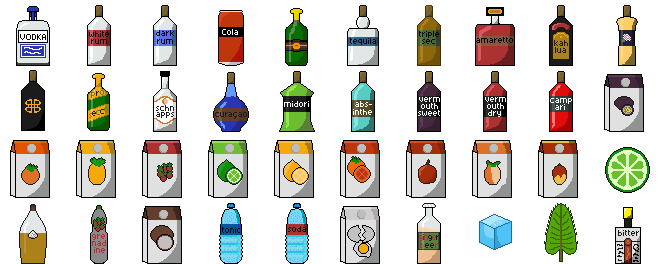
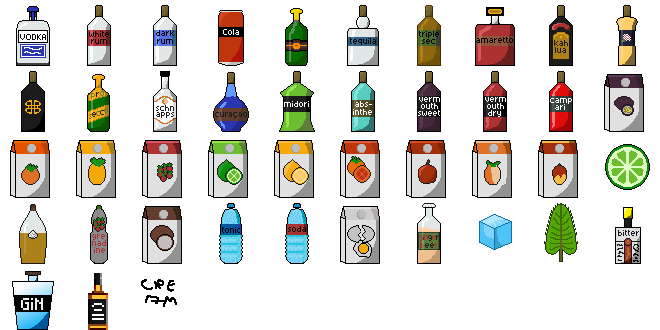
working tilesheet and all assets in game

diff --git a/main.py b/main.py
@@ -84,13 +84,6 @@ if True:
     cocktail_shaker_img = convert_asset("assets/cocktail_shaker.png", 2)
     cocktail_glass_img = convert_asset("assets/cocktail_glass.png", 1)
 
-    vodka_bar_img = convert_asset("assets/vodka_bar.png", 1)
-    orange_juice_bar_img = convert_asset("assets/orange_juice_bar.png", 1)
-    champagne_bar_img = convert_asset("assets/vodka_bar.png", 1)
-    water_bar_img = convert_asset("assets/waterbottle_bar.png", 1)
-    whiskey_bar_img = convert_asset("assets/vodka_bar.png", 1)
-    gin_bar_img = convert_asset("assets/vodka_bar.png", 1)
-
     guest1_img = convert_asset("assets/guest_1.png", 1)
     guest2_img = convert_asset("assets/guest_2.png", 1)
     guest3_img = convert_asset("assets/guest_3.png", 1)
@@ -116,28 +109,51 @@ if True:
 #----------assigning image names---------
 
 if True: 
-    #----ingredient icons-----
-    vodka_icon = ingredient_icons_list[0]
-    white_rum_icon = ingredient_icons_list[1]
-    dark_rum_icon = ingredient_icons_list[2]
-    cola_icon = ingredient_icons_list[3]
-    champagne_icon = ingredient_icons_list[4]
-    tequila_icon = ingredient_icons_list[5]
-    triple_sec_icon = ingredient_icons_list[6]
-    amaretto_icon = ingredient_icons_list[7]
-    kahlua_icon = ingredient_icons_list[8]
-    #no idea what this is
-    #no idea what this is
-    prosecco_icon = ingredient_icons_list[11]
-    schnapps_icon = ingredient_icons_list[12]
-    curacao_icon = ingredient_icons_list[13]
-    midori_icon = ingredient_icons_list[14]
-    absinthe_icon = ingredient_icons_list[15]
-    sweet_vermouth_icon = ingredient_icons_list[16]
-    dry_vermouth_icon = ingredient_icons_list[17]
-    campari_icon = ingredient_icons_list[18]
-    passionfruit_juice_icon = ingredient_icons_list[19]
-    #more to come
+    drink_bar_library = {
+                            "vodka": ingredient_icons_list[0],
+                            "gin": ingredient_icons_list[40],
+                            "orange juice": ingredient_icons_list[20],
+                            "white rum": ingredient_icons_list[1],
+                            "cola": ingredient_icons_list[3],
+                            "tonic water": ingredient_icons_list[33],
+                            "soda water": ingredient_icons_list[34],
+                            "lime juice": ingredient_icons_list[23],
+                            "mint": ingredient_icons_list[38],
+                            "sugar syrup": ingredient_icons_list[30],
+                            "ice": ingredient_icons_list[37],
+                            "dark rum": ingredient_icons_list[2],
+                            "tequila": ingredient_icons_list[5],
+                            "whiskey": ingredient_icons_list[41],
+                            "triple sec": ingredient_icons_list[6],
+                            "amaretto": ingredient_icons_list[7],
+                            "kahlúa": ingredient_icons_list[8],
+                            "baileys": ingredient_icons_list[10],
+                            "champagne": ingredient_icons_list[4],
+                            "prosecco": ingredient_icons_list[11],
+                            "peach schnapps": ingredient_icons_list[12],
+                            "blue curaçao": ingredient_icons_list[13],
+                            "midori": ingredient_icons_list[14],
+                            "absinthe": ingredient_icons_list[15],
+                            "dry vermouth": ingredient_icons_list[17],
+                            "sweet vermouth": ingredient_icons_list[16],
+                            "campari": ingredient_icons_list[18],
+                            "elderflower liqueur": ingredient_icons_list[9],
+                            "pineapple juice": ingredient_icons_list[21],
+                            "cranberry juice": ingredient_icons_list[22],
+                            "lemon juice": ingredient_icons_list[24],
+                            "grapefruit juice": ingredient_icons_list[25],
+                            "apple juice": ingredient_icons_list[26],
+                            "mango juice": ingredient_icons_list[28],
+                            "passion fruit juice": ingredient_icons_list[19],
+                            "peach juice": ingredient_icons_list[27],
+                            "grenadine": ingredient_icons_list[31],
+                            "coconut cream": ingredient_icons_list[32],
+                            "ginger beer": ingredient_icons_list[36],
+                            "egg white": ingredient_icons_list[35],
+                            "cream": ingredient_icons_list[42],
+                            "lime": ingredient_icons_list[29],
+                            "bitters": ingredient_icons_list[39]
+                        }
     
 #-----------button variables-----------
 
@@ -312,54 +328,6 @@ if True:
     guest_order4_rect = pygame.Rect(guest4_rect.x - 20, 332, 150, 100)
     guest_order5_rect = pygame.Rect(guest5_rect.x - 20, 332, 150, 100)
     guest_order6_rect = pygame.Rect(guest6_rect.x - 20, 332, 150, 100)
-    
-
-    drink_bar_library = {  
-                            "vodka": vodka_bar_img,
-                            "gin": gin_bar_img,
-                            "orange juice": orange_juice_bar_img,
-                            "white rum": whiskey_bar_img,
-                            "cola": vodka_bar_img,
-                            "tonic water": water_bar_img,
-                            "soda water": water_bar_img,
-                            "lime juice": vodka_bar_img,
-                            "mint": vodka_bar_img,
-                            "sugar syrup": vodka_bar_img,
-                            "ice": water_bar_img,
-                            "dark rum": vodka_bar_img,
-                            "tequila": vodka_bar_img,
-                            "whiskey": vodka_bar_img,
-                            "triple sec": vodka_bar_img,
-                            "amaretto": vodka_bar_img,
-                            "kahlúa": vodka_bar_img,
-                            "baileys": vodka_bar_img,
-                            "champagne": vodka_bar_img,
-                            "prosecco": vodka_bar_img,
-                            "peach schnapps": vodka_bar_img,
-                            "blue curaçao": vodka_bar_img,
-                            "midori": vodka_bar_img,
-                            "absinthe": vodka_bar_img,
-                            "dry vermouth": vodka_bar_img,
-                            "sweet vermouth": vodka_bar_img,
-                            "campari": vodka_bar_img,
-                            "elderflower liqueur": vodka_bar_img,
-                            "pineapple juice": vodka_bar_img,
-                            "cranberry juice": vodka_bar_img,
-                            "lemon juice": vodka_bar_img,
-                            "grapefruit juice": vodka_bar_img,
-                            "apple juice": vodka_bar_img,
-                            "mango juice": vodka_bar_img,
-                            "passion fruit juice": vodka_bar_img,
-                            "peach juice": vodka_bar_img,
-                            "grenadine": vodka_bar_img,
-                            "coconut cream": vodka_bar_img,
-                            "ginger beer": vodka_bar_img,
-                            "egg white": vodka_bar_img,
-                            "cream": vodka_bar_img,
-                            "lime": vodka_bar_img,
-                            "mint": vodka_bar_img,
-                            "bitters": vodka_bar_img
-                        }
     
     guest_rects_library = { 1: guest1_rect,
                             2: guest2_rect,
